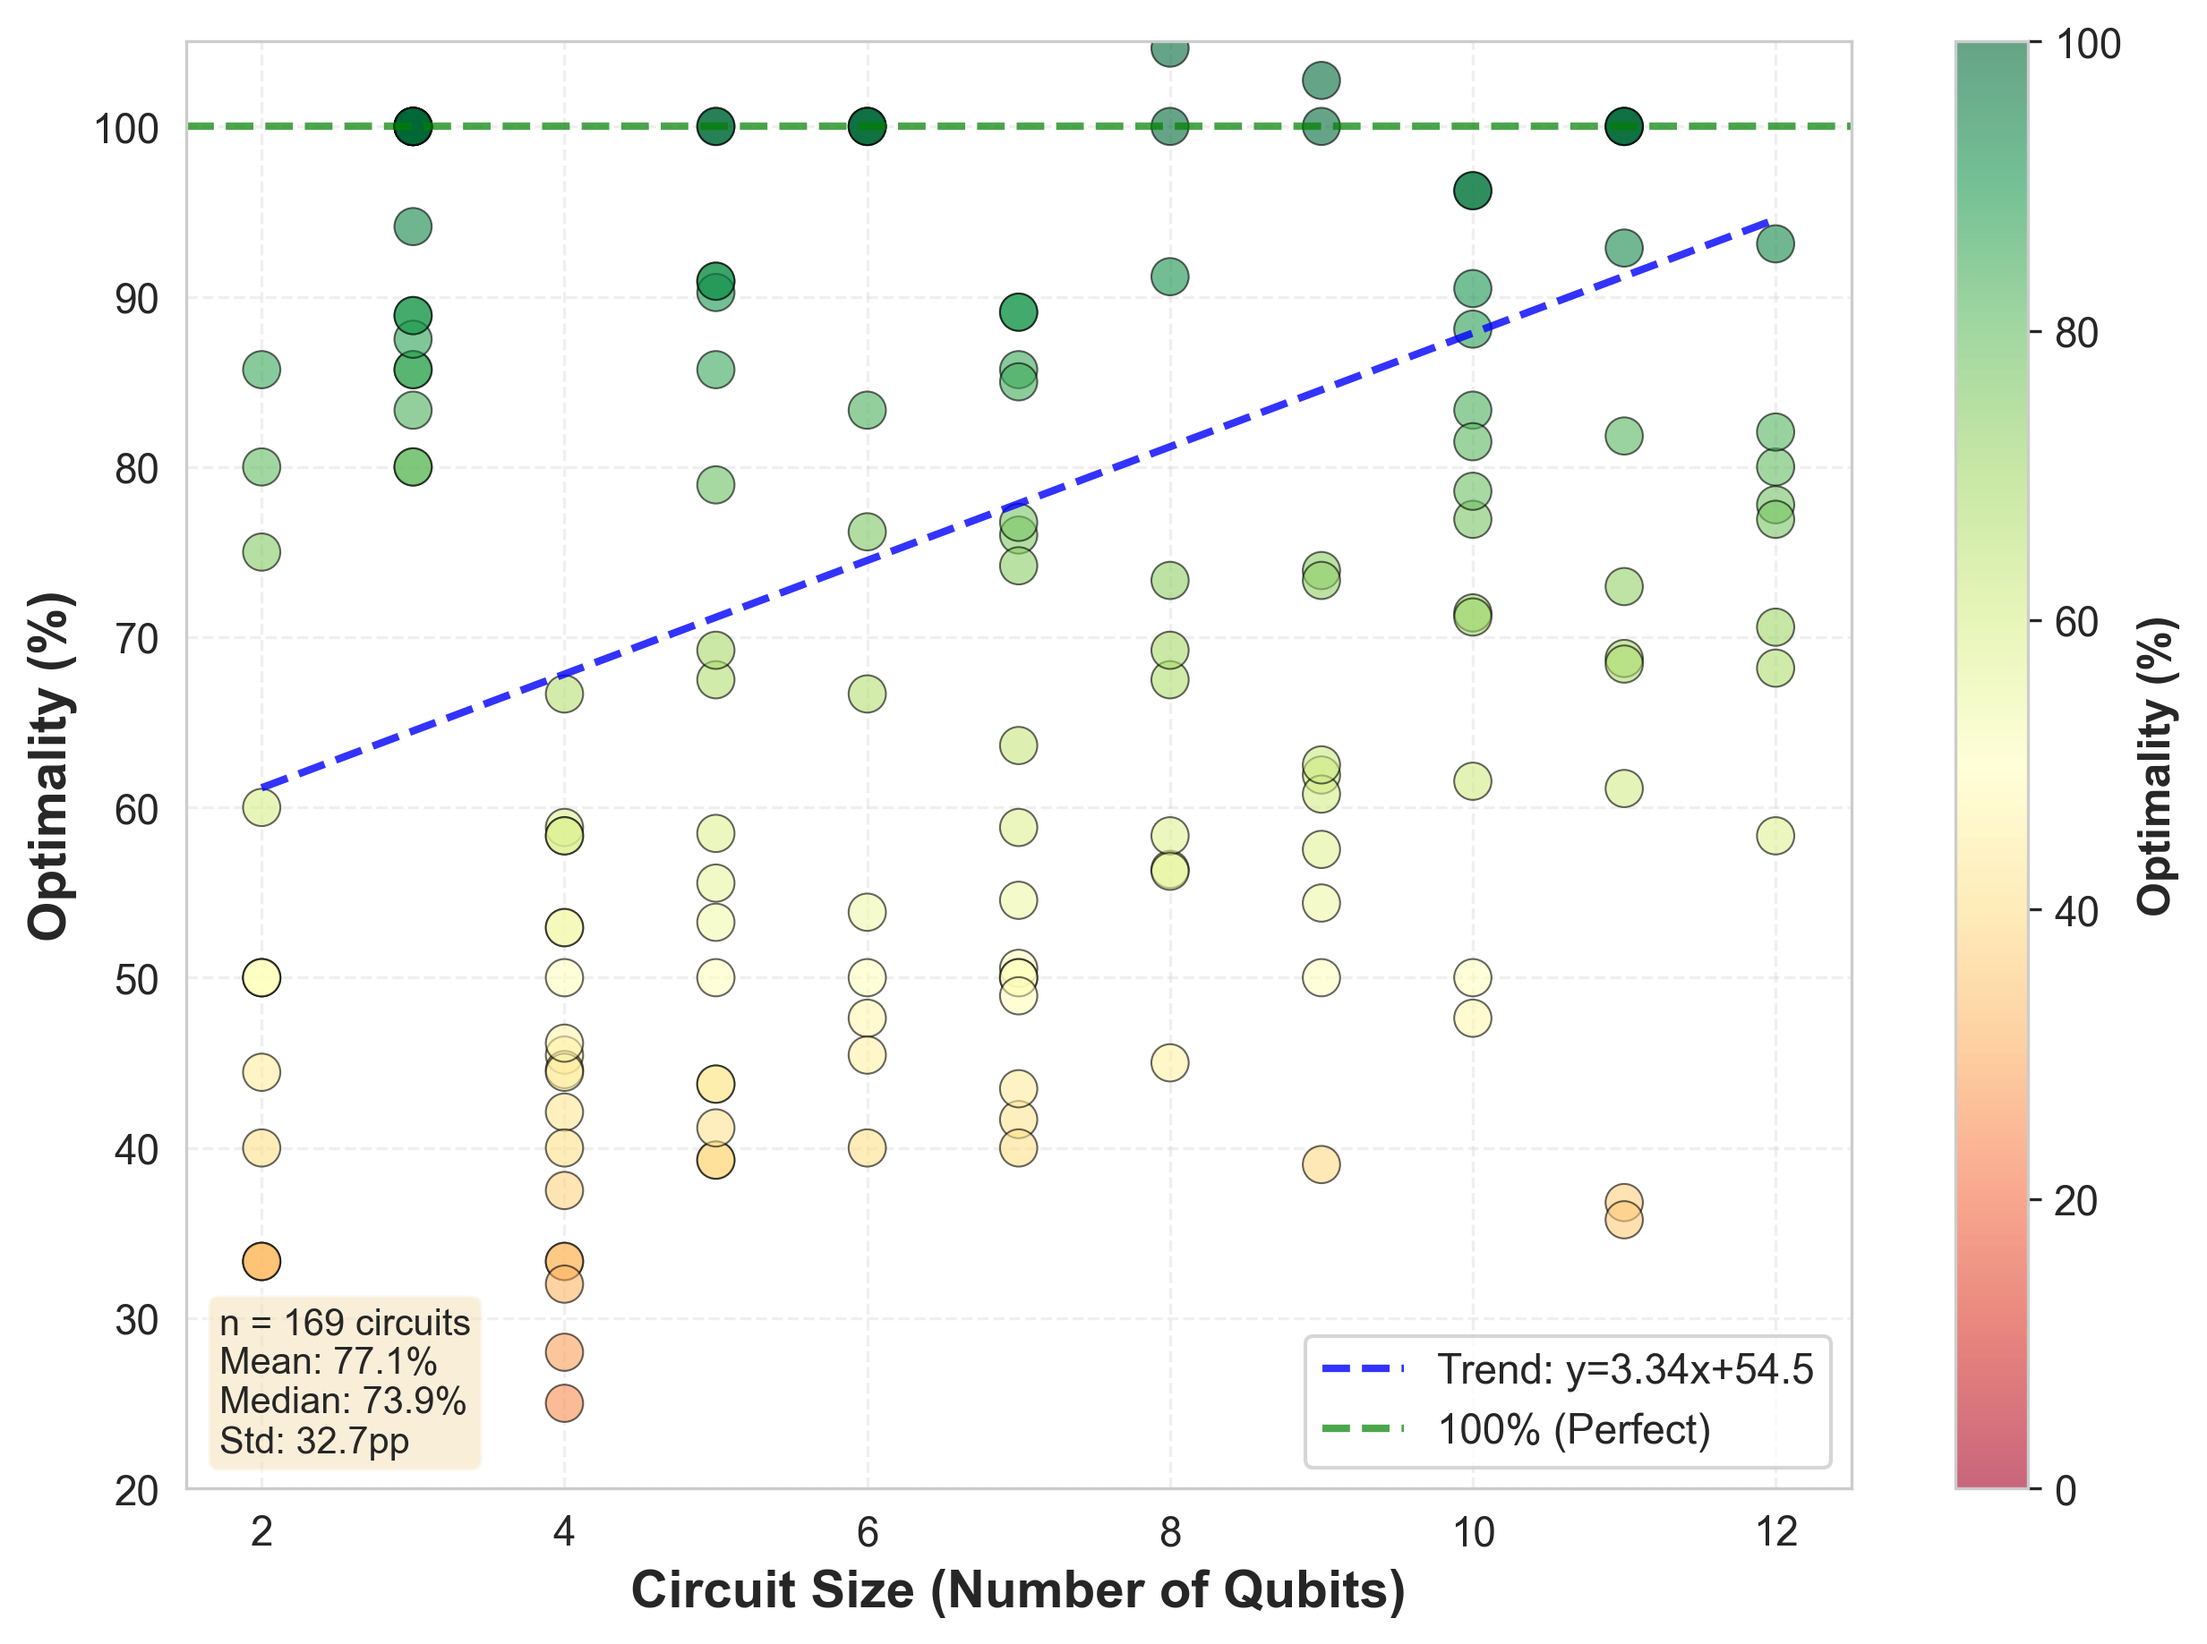
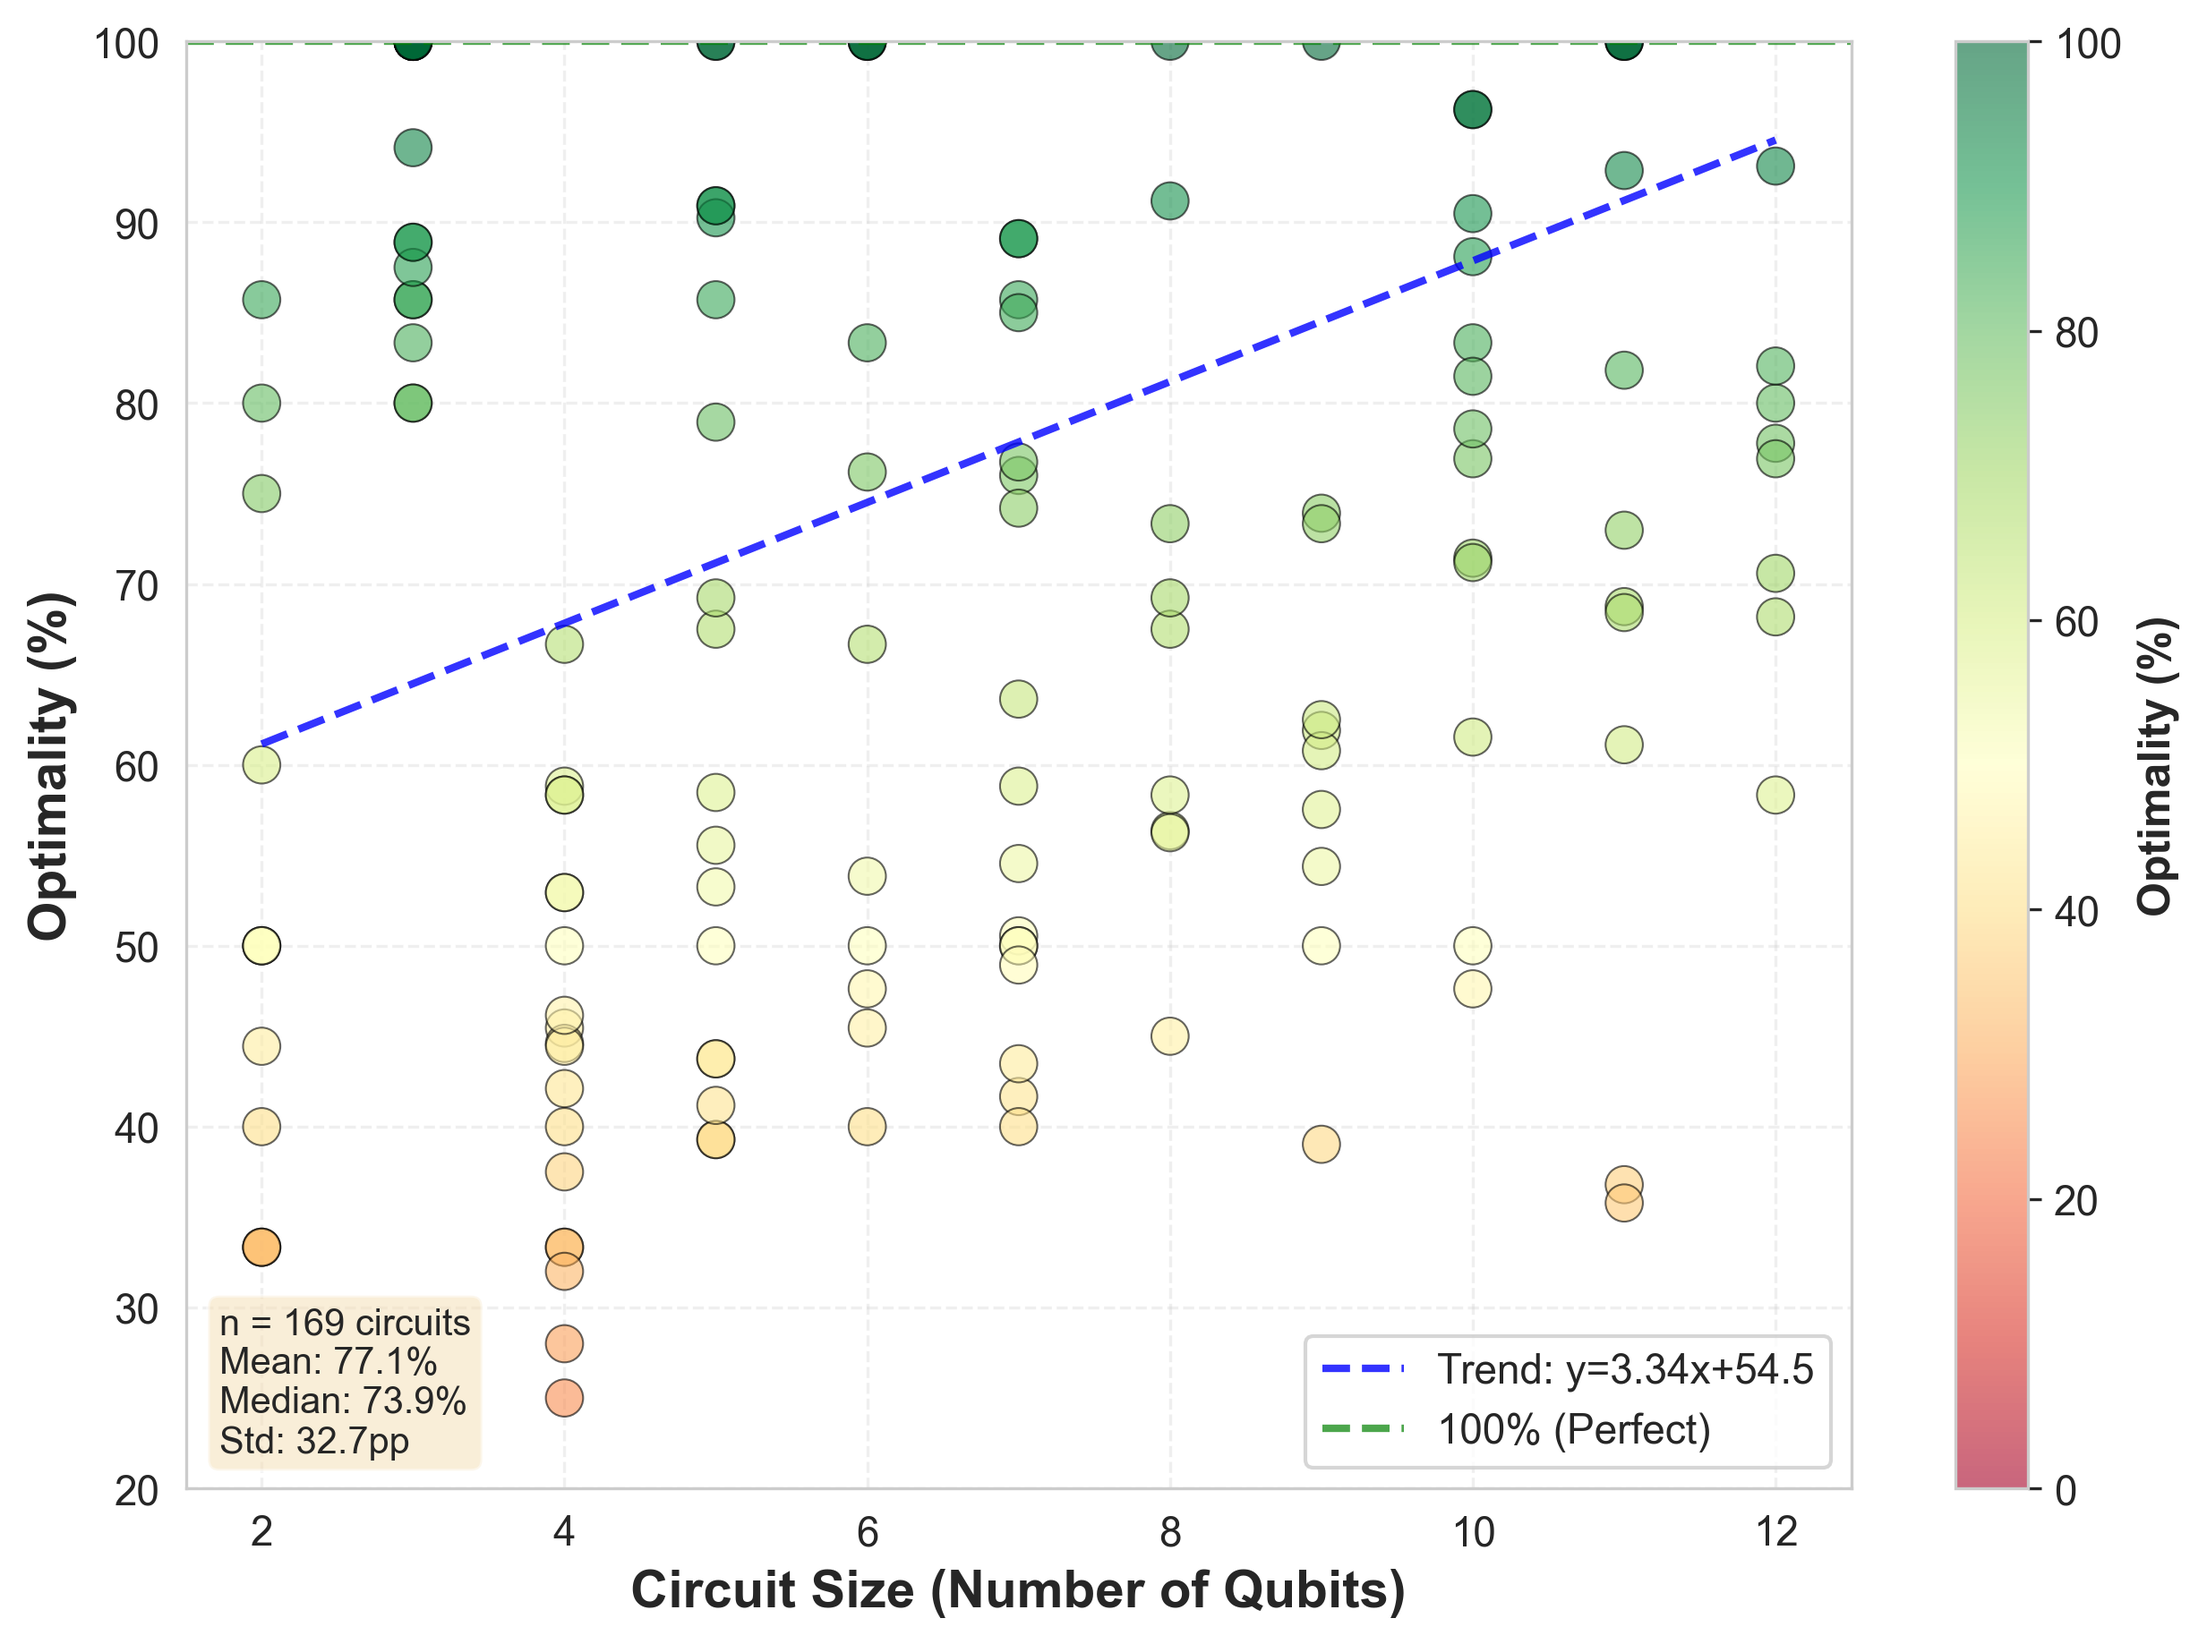
had to kill run

diff --git a/hdh/hdh_bruteforce_plot.py b/hdh/hdh_bruteforce_plot.py
@@ -240,7 +240,7 @@ def create_plot(df: pd.DataFrame, output_path: Path, k: int):
     
     # Set y-axis range
     y_min = max(0, (df_finite['optimality'].min() * 100) - 5)
-    y_max = min(105, (df_finite['optimality'].max() * 100) + 5)
+    y_max = min(100, (df_finite['optimality'].max() * 100) + 5)
     
     x_min = min(overhead_values) - 0.05
     x_max = max(overhead_values) + 0.05
@@ -339,7 +339,7 @@ def create_circuit_size_plot(df: pd.DataFrame, output_path: Path, k: int, overhe
     ax.set_xlim([df_plot['qubits_int'].min() - x_padding, 
                  df_plot['qubits_int'].max() + x_padding])
     ax.set_ylim([max(0, df_plot['optimality_pct'].min() - y_padding), 
-                 min(105, df_plot['optimality_pct'].max() + y_padding)])
+                 min(100, df_plot['optimality_pct'].max() + y_padding)])
     
     # Legend
     ax.legend(loc='best')

diff --git a/hdh/hdh_bruteforce.py b/hdh/hdh_bruteforce.py
@@ -700,7 +700,7 @@ def main():
     parser.add_argument(
         '--max_qubits',
         type=int,
-        default=20,
+        default=18,
         help='Maximum qubits for circuits to test (default: 20)'
     )
     parser.add_argument(
